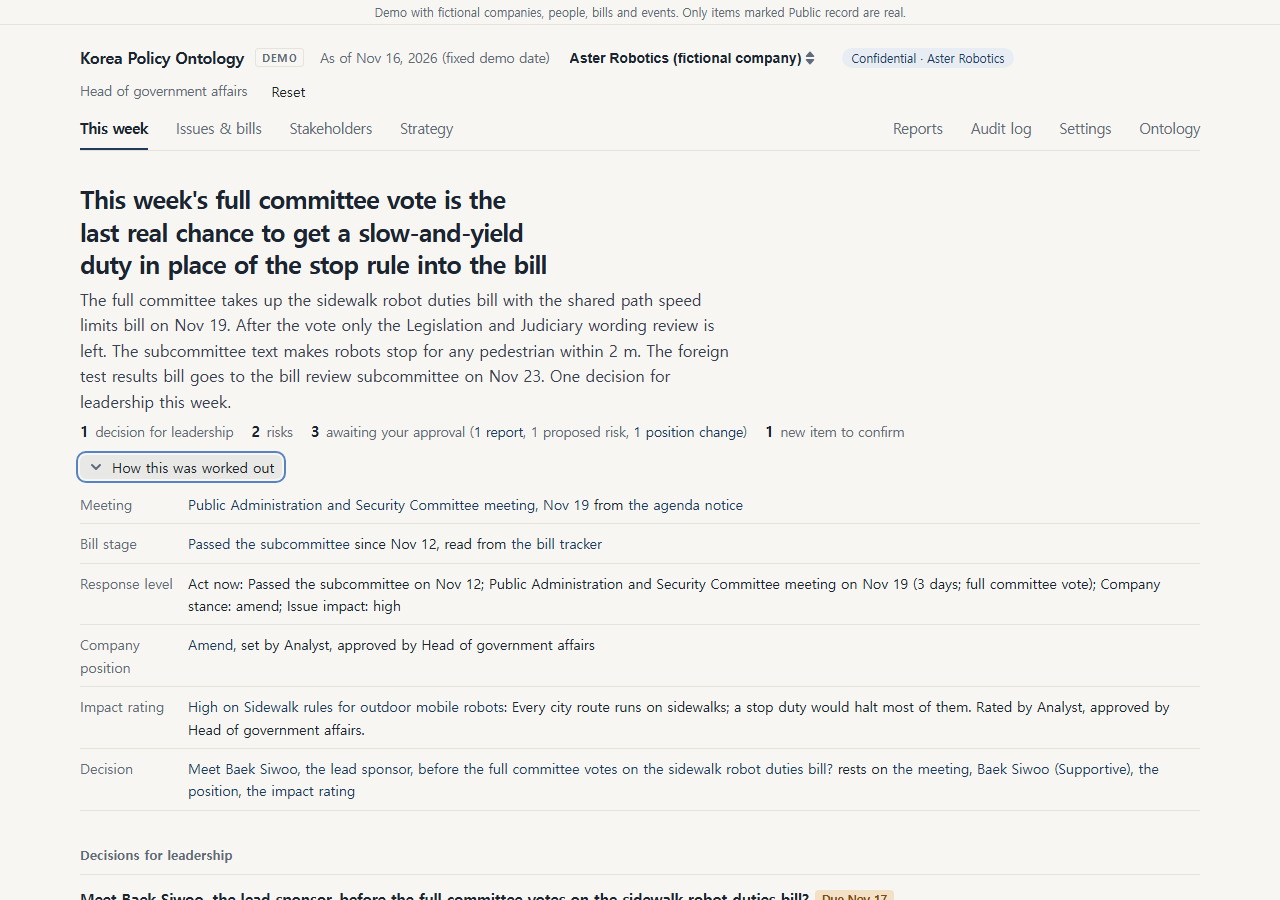
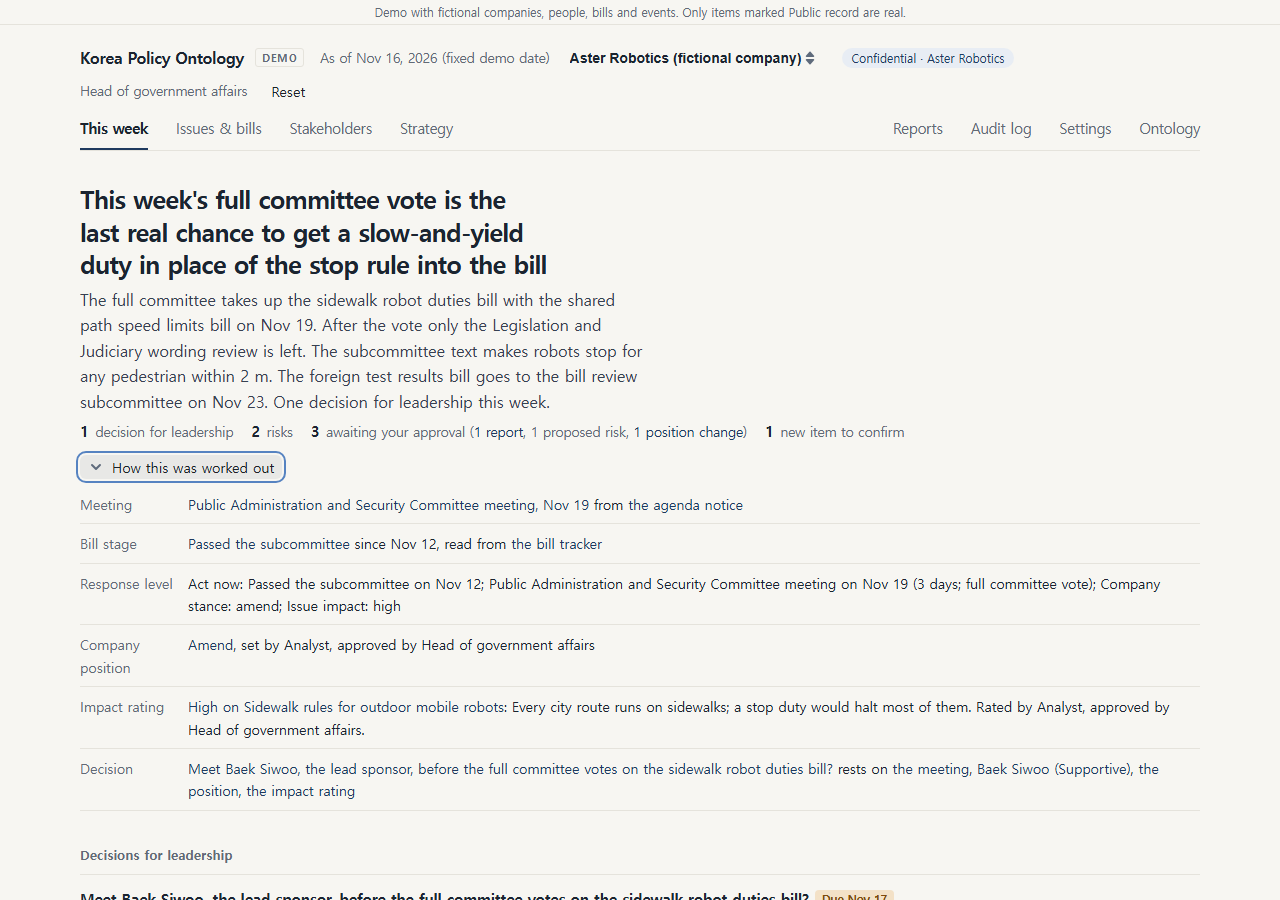
Polish: stakeholder labels never sit under a tie line or off the edge, whole network fits a phone, readable prose width, report headings in order, proposal text contrast

Changed region(s): [[0.0625, 0.3111, 0.5625, 0.4667]]

diff --git a/app/src/stakeholders.tsx b/app/src/stakeholders.tsx
@@ -124,7 +124,7 @@ function Graph({ app, issueId, selected, onSelect }: { app: App; issueId: string
       container: ref.current,
       elements,
       autoungrabify: false,
-      minZoom: 0.4,
+      minZoom: 0.25, // low enough that the whole network fits a phone-width panel
       maxZoom: 2,
       layout: {
         name: 'cose', randomize: false, animate: false, nodeDimensionsIncludeLabels: true, padding: 24,
@@ -134,11 +134,11 @@ function Graph({ app, issueId, selected, onSelect }: { app: App; issueId: string
         { selector: 'node', style: {
           'background-color': 'data(color)', shape: 'ellipse', width: 'data(size)', height: 'data(size)', 'border-width': 1.5, 'border-color': 'data(border)',
           label: 'data(label)', color: '#1B2430', 'font-size': narrow ? 22 : 11, 'font-weight': 600, 'font-family': 'system-ui, -apple-system, Segoe UI, Roboto, sans-serif', 'text-valign': 'bottom', 'text-margin-y': 5,
-          'text-wrap': 'wrap', 'text-max-width': narrow ? '220px' : '140px', 'text-background-color': '#F7F6F2', 'text-background-opacity': 0.85, 'text-background-padding': '1px',
+          'text-wrap': 'wrap', 'text-max-width': narrow ? '220px' : '140px', 'text-background-color': '#F7F6F2', 'text-background-opacity': 0.85, 'text-background-padding': '1px', 'z-index': 10,
         } },
         { selector: 'node.sel', style: { 'border-width': 3, 'border-color': '#1B2430' } },
         // The seat under each name: a label-only node, smaller and lighter than the name.
-        { selector: 'node[?cap]', style: { width: 1, height: 1, 'background-opacity': 0, 'border-width': 0, 'text-valign': 'center', 'text-margin-y': 0, color: '#6B7380', 'font-weight': 400, 'text-background-opacity': 0 } },
+        { selector: 'node[?cap]', style: { width: 1, height: 1, 'background-opacity': 0, 'border-width': 0, 'text-valign': 'center', 'text-margin-y': 0, color: '#5B6370', 'font-weight': 400, 'z-index': 1 } },
         { selector: 'edge', style: { width: 'data(w)', 'line-color': '#8E97A3', 'line-style': 'data(line)' as never, 'curve-style': 'straight' } },
         { selector: 'edge.near', style: { 'line-color': '#1B2430' } },
       ],
@@ -149,15 +149,16 @@ function Graph({ app, issueId, selected, onSelect }: { app: App; issueId: string
     cy.on('tap', (e) => e.target === cy && pick.current(undefined));
     // The fit zooms out when the graph is wide; grow the labels so the name stays about 11px on screen.
     const z = cy.zoom();
-    const nameFs = z < 1 ? Math.min(narrow ? 30 : 20, (narrow ? 22 : 11) / z) : narrow ? 22 : 11;
-    const capFs = Math.round(nameFs * 0.82);
-    // The seat goes under the name's own label box, so a name that wraps onto two lines does not run into it.
+    const nameFs = z < 1 ? Math.min(narrow ? 36 : 20, (narrow ? 22 : 11) / z) : narrow ? 22 : 11;
+    const capFs = Math.round(nameFs * 0.88);
     // The seat goes under the name. Labels wrap at a fixed width, so estimate each label's line count; the seat label is centered on its point.
     const lines = (text: string, fs: number, width: number) => Math.max(1, Math.ceil((text.length * fs * 0.56) / width));
     const capY = (n: cytoscape.NodeSingular) => n.position('y') + n.data('size') / 2 + 5 + lines(String(n.data('label')), nameFs, narrow ? 220 : 140) * nameFs * 1.3 + (lines(String(n.data('role')), capFs, 150) * capFs * 1.25) / 2 + 2;
     cy.style().selector('node[!cap]').style('font-size', nameFs).selector('node[?cap]').style({ 'font-size': capFs, 'text-max-width': '150px' }).update();
-    cy.add(cy.nodes().map((n) => ({ group: 'nodes' as const, data: { id: `cap:${n.id()}`, cap: true, of: n.id(), label: n.data('role'), color: '#F7F6F2', border: '#F7F6F2', size: 1 }, position: { x: n.position('x'), y: capY(n) }, grabbable: false, selectable: false })));
+    // On a phone the seats would crowd the names; the list under the graph carries them there.
+    if (!narrow) cy.add(cy.nodes().map((n) => ({ group: 'nodes' as const, data: { id: `cap:${n.id()}`, cap: true, of: n.id(), label: n.data('role'), color: '#F7F6F2', border: '#F7F6F2', size: 1 }, position: { x: n.position('x'), y: capY(n) }, grabbable: false, selectable: false })));
     cy.fit(cy.elements(), 20); // the seat labels hang below the lowest names, so fit again with them in
+    cy.one('render', () => cy.fit(cy.elements(), 20)); // label boxes are measured on the first paint; fit once more so no label hangs off the edge
     cy.on('position', 'node[!cap]', (e) => cy.getElementById(`cap:${e.target.id()}`).position({ x: e.target.position('x'), y: capY(e.target) }));
     cyRef.current = cy;
     return () => cy.destroy();

diff --git a/app/src/styles.css b/app/src/styles.css
@@ -47,7 +47,7 @@ main { padding-top: 6px; }
 /* Page text */
 .page { max-width: 1200px; }
 .headline { font-size: 25px; line-height: 1.3; letter-spacing: -0.03em; font-weight: 700; margin: 26px 0 6px; max-width: 44ch; text-wrap: balance; }
-.lead { font-size: 16px; color: var(--ink-2); margin: 0 0 4px; max-width: 75ch; }
+.lead { font-size: 16px; color: var(--ink-2); margin: 0 0 4px; max-width: 64ch; }
 .sub { color: var(--muted); font-size: 13.5px; }
 .muted { color: var(--muted); }
 .colophon { margin-top: 56px; padding-top: 14px; border-top: 1px solid var(--hair); font-size: 12px; color: var(--muted); }
@@ -70,6 +70,8 @@ main { padding-top: 6px; }
 .item:last-child { border-bottom: 0; }
 .item-title { font-weight: 600; display: flex; flex-wrap: wrap; align-items: center; gap: 6px; }
 .item p { margin: 4px 0 0; }
+.item > p, .item > .sub, .type p { max-width: 66ch; }
+p, li, dd, .sub { text-wrap: pretty; }
 .item.ask, .item.plan, .item.confirm, .item.news { display: flex; align-items: center; gap: 12px; }
 .item.news { align-items: baseline; }
 .item.plan.done .grow { color: var(--muted); text-decoration: line-through; }
@@ -195,9 +197,9 @@ button.pp:hover { border-color: var(--ink-2); }
 .report-title { font-weight: 600; font-size: 14px; }
 .split.reports { grid-template-columns: minmax(0, 300px) minmax(0, 1fr); }
 .memo { background: var(--surface); padding: 30px clamp(18px, 4vw, 48px); margin-top: 12px; border-radius: 4px; box-shadow: 0 0 0 1px var(--hair); }
-.md { font-family: var(--serif); font-size: 16px; line-height: 1.65; max-width: 70ch; }
-.md h3 { font-size: 21px; margin-top: 0; }
-.md h4 { font-size: 16.5px; margin: 22px 0 6px; }
+.md { font-family: var(--serif); font-size: 16px; line-height: 1.65; max-width: 62ch; }
+.md h2 { font-size: 21px; margin-top: 0; text-wrap: balance; }
+.md h3 { font-size: 16.5px; margin: 22px 0 6px; }
 .md .table-wrap { font-family: var(--sans); font-size: 14px; }
 .md .footnote { font-size: 13px; color: var(--muted); }
 .fn { margin-left: 1px; color: var(--navy); }
@@ -262,7 +264,7 @@ button.pp:hover { border-color: var(--ink-2); }
 @media (max-width: 600px) {
   body { font-size: 14.5px; }
   .headline { font-size: 21px; }
-  .graph { height: 380px; }
+  .graph { height: 460px; }
   .spacer { display: none; }
   /* Header on a phone: name and Reset on one line, the client below, then the date and the confidentiality tag. */
   .top { gap: 2px 10px; }
@@ -327,4 +329,5 @@ button.pp:hover { border-color: var(--ink-2); }
 .bars-low i.on { background: #b9bfc7; }
 .bars-label { margin-right: 6px; }
 .pending-inline { display: flex; flex-wrap: wrap; align-items: center; gap: 6px 8px; margin-top: 6px; padding: 6px 8px; background: var(--amber-soft); border-radius: 4px; font-size: 13.5px; }
+.item.proposed .sub { color: var(--ink-2); }
 .item.proposed { border-left: 0; background: var(--amber-soft); padding: 8px 10px; border-radius: 4px; margin-bottom: 8px; }

diff --git a/app/src/ui.tsx b/app/src/ui.tsx
@@ -147,8 +147,8 @@ export function Markdown({ text, app }: { text: string; app: App }) {
   for (let i = 0; i < lines.length; i++) {
     const line = lines[i];
     const k = `l${i}`;
-    if (line.startsWith('## ')) out.push(<h4 key={k}>{inline(line.slice(3), app)}</h4>);
-    else if (line.startsWith('# ')) out.push(<h3 key={k}>{inline(line.slice(2), app)}</h3>);
+    if (line.startsWith('## ')) out.push(<h3 key={k}>{inline(line.slice(3), app)}</h3>);
+    else if (line.startsWith('# ')) out.push(<h2 key={k}>{inline(line.slice(2), app)}</h2>);
     else if (line.startsWith('- ')) {
       const items: string[] = [];
       while (lines[i]?.startsWith('- ')) items.push(lines[i++].slice(2));
